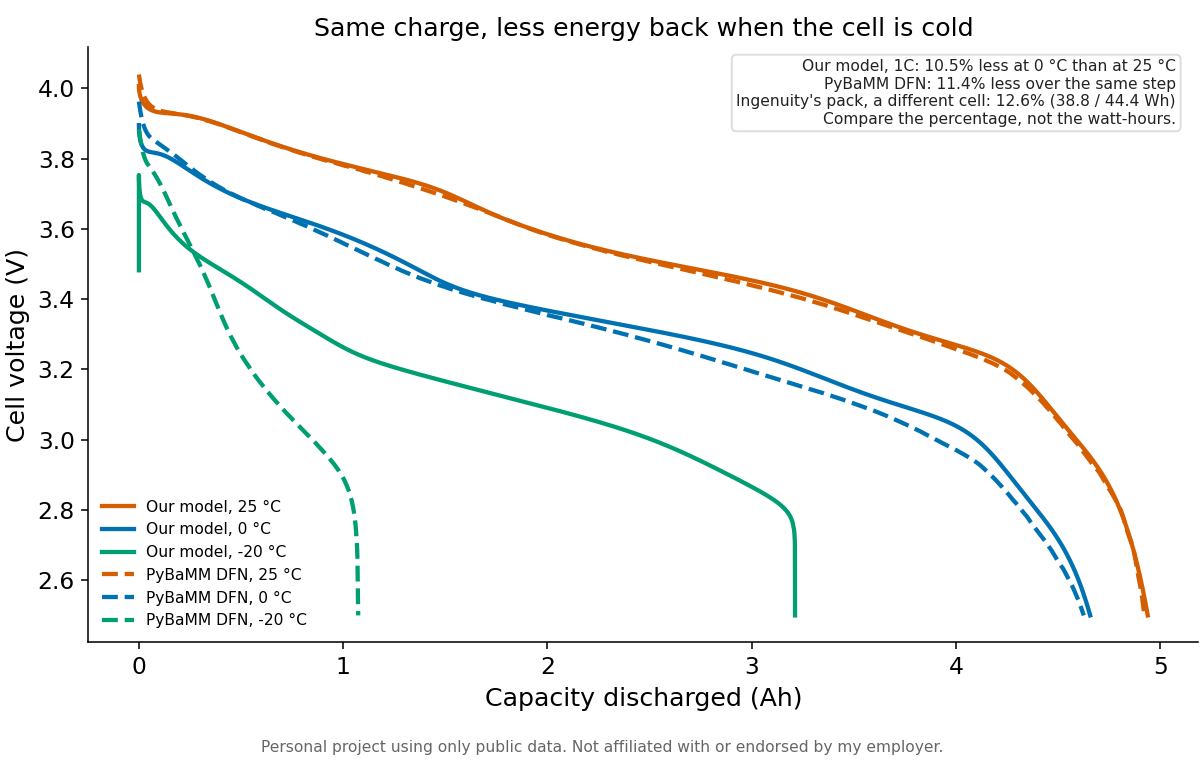
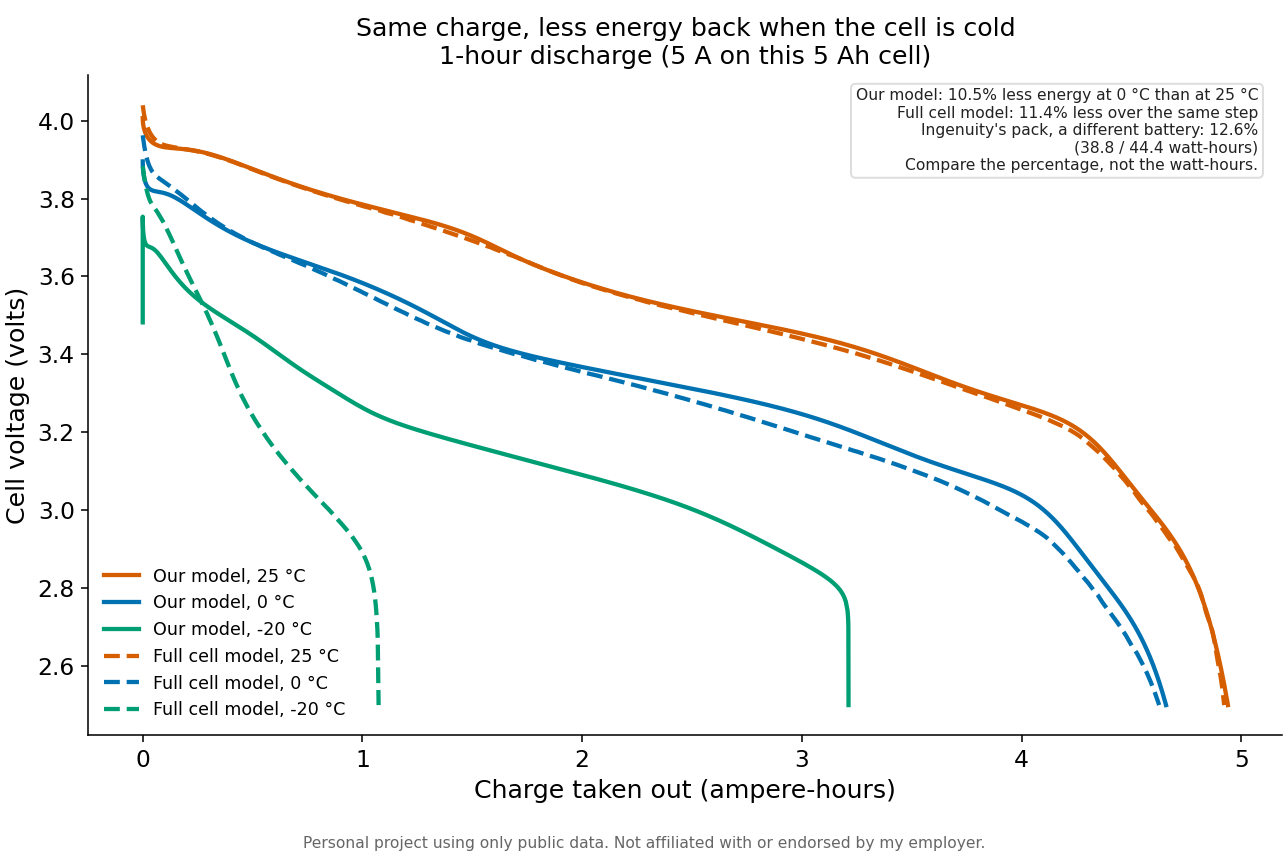
Spell out rates and units on the November figures.
Legends say a 1-hour or 2-hour charge instead of 1C and C/2 on their own.
The plating axis names the milliampere-hours and adds a milligram scale.
Heater, voltage and state-of-charge labels are written in words.
The numbers are unchanged.

diff --git a/01-lunar-night-battery/make_figures.py b/01-lunar-night-battery/make_figures.py
@@ -15,7 +15,7 @@ import matplotlib.pyplot as plt
 import numpy as np
 
 from cell import Cell, cell_from_params
-from common.constants import STEFAN_BOLTZMANN
+from common.constants import FARADAY, STEFAN_BOLTZMANN
 from common.params import Entry, require
 from common.plotting import COLOURS, apply_style, reserve_footer, save_figure
 from common.units import celsius_to_kelvin, watt_hours_to_joules
@@ -36,12 +36,23 @@ TEMPERATURE_COLOURS = {
 }
 
 
-def _rate_label(c_rate: float) -> str:
+# Conventional atomic weight of lithium, three figures. Grams per ampere-hour
+# is (3600 C/Ah) / Faraday (C/mol) × this mass. One mAh is the same number of
+# milligrams, so the right-hand scale on chart A is the left-hand scale times
+# this factor.
+LITHIUM_MOLAR_MASS_G_PER_MOL = 6.94
+LITHIUM_MG_PER_MAH = 3600.0 / FARADAY * LITHIUM_MOLAR_MASS_G_PER_MOL
+
+
+def _rate_label(c_rate: float, capacity_Ah: float) -> str:
+    """Plain-language legend. 1C on a 5 Ah cell is a 5 A, one-hour charge."""
+    current_A = c_rate * capacity_Ah
     if abs(c_rate - 0.5) < 1e-9:
-        return "C/2"
+        return f"2-hour charge (C/2 = {current_A:g} A)"
     if abs(c_rate - 1.0) < 1e-9:
-        return "1C"
-    return f"{c_rate:g}C"
+        return f"1-hour charge (1C = {current_A:g} A)"
+    hours = 1.0 / c_rate
+    return f"{hours:g}-hour charge ({current_A:g} A)"
 
 
 def figure_a(cell: Cell, book: dict[str, Entry], out: Path, smoke: bool) -> dict:
@@ -101,15 +112,16 @@ def figure_a(cell: Cell, book: dict[str, Entry], out: Path, smoke: bool) -> dict
 
     rate_colours = {0.5: COLOURS["mid"], 1.0: COLOURS["warm"]}
     apply_style()
-    # Wide enough that 140 dpi is about 1300 px, the size a LinkedIn post shows.
-    figure, axes = plt.subplots(1, 2, figsize=(9.2, 5.15), sharey=True, layout="constrained")
+    # Wide enough that 140 dpi is about 1400 px, and tall enough for the
+    # two-line axis name plus the caption under the title.
+    figure, axes = plt.subplots(1, 2, figsize=(10.4, 6.3), sharey=True, layout="constrained")
     for axis, rows, title in (
         (axes[0], ours, "Our model: off until the anode hits 0 V"),
-        (axes[1], pybamm_rows or ours, "PyBaMM: a smooth Butler-Volmer tail"),
+        (axes[1], pybamm_rows or ours, "Cross-check: plating rises smoothly"),
     ):
         if axis is axes[1] and smoke:
-            axis.set_title("PyBaMM cross-check skipped in smoke mode")
-            axis.text(0.5, 0.5, "smoke mode", ha="center", va="center", transform=axis.transAxes)
+            axis.set_title("Cross-check skipped in the short test run")
+            axis.text(0.5, 0.5, "short test run", ha="center", va="center", transform=axis.transAxes)
             continue
         for rate in rates:
             subset = [row for row in rows if row["rate"] == rate]
@@ -118,14 +130,30 @@ def figure_a(cell: Cell, book: dict[str, Entry], out: Path, smoke: bool) -> dict
                 [row["plated_mAh"] for row in subset],
                 marker="o",
                 color=rate_colours.get(rate, COLOURS["ink"]),
-                label=_rate_label(rate),
+                label=_rate_label(rate, cell.nominal_capacity_Ah),
             )
         axis.set_xlabel("Charging temperature (°C)")
         axis.set_title(title, fontsize=11)
-        axis.legend(frameon=False)
+        axis.legend(frameon=False, fontsize=9, loc="upper right")
         axis.set_ylim(bottom=0.0)
-    axes[0].set_ylabel("Plated lithium at 4.2 V (mAh)")
-    figure.suptitle("Below 0 °C, charging starts to plate lithium", fontsize=14)
+    axes[0].set_ylabel("Lithium plated during charge\n(mAh of charge diverted to plating)")
+    # Same numbers, in milligrams of metal. 1 mAh ↔ LITHIUM_MG_PER_MAH mg.
+    metal = axes[1].secondary_yaxis(
+        "right",
+        functions=(
+            lambda milliamp_hours: milliamp_hours * LITHIUM_MG_PER_MAH,
+            lambda milligrams: milligrams / LITHIUM_MG_PER_MAH,
+        ),
+    )
+    metal.set_ylabel("Lithium metal (mg)")
+    metal.spines["top"].set_visible(False)
+    nameplate = cell.nominal_capacity_Ah
+    figure.suptitle(
+        "Below 0 °C, charging starts to plate lithium\n"
+        f"C-rate: 1C charges the full {nameplate:.0f} Ah cell in one hour.\n"
+        f"1 Ah of plating ≈ {LITHIUM_MG_PER_MAH * 1000:.0f} mg of lithium.",
+        fontsize=13,
+    )
     reserve_footer(figure)
     save_figure(figure, out / "A_plated_lithium.png")
     return {
@@ -145,7 +173,7 @@ def figure_b(cell: Cell, book: dict[str, Entry], out: Path, smoke: bool) -> dict
 
     ours = []
     apply_style()
-    figure, axis = plt.subplots(figsize=(8.6, 5.5), layout="constrained")
+    figure, axis = plt.subplots(figsize=(9.2, 6.2), layout="constrained")
     for temperature_C in temperatures:
         result = simulate(
             cell,
@@ -188,7 +216,7 @@ def figure_b(cell: Cell, book: dict[str, Entry], out: Path, smoke: bool) -> dict
                 curve.voltage_V,
                 color=TEMPERATURE_COLOURS.get(temperature_C, COLOURS["ink"]),
                 linestyle="--",
-                label=f"PyBaMM DFN, {temperature_C:.0f} °C",
+                label=f"Full cell model, {temperature_C:.0f} °C",
             )
             pybamm_rows.append(
                 {
@@ -204,25 +232,29 @@ def figure_b(cell: Cell, book: dict[str, Entry], out: Path, smoke: bool) -> dict
     ingenuity_warm = float(require(book, "ingenuity_energy_25C_Wh").value)
     ingenuity_cold = float(require(book, "ingenuity_energy_0C_Wh").value)
     ingenuity_drop = (ingenuity_warm - ingenuity_cold) / ingenuity_warm
-    axis.set_xlabel("Capacity discharged (Ah)")
-    axis.set_ylabel("Cell voltage (V)")
-    axis.set_title("Same charge, less energy back when the cell is cold")
-    axis.legend(frameon=False, fontsize=8, loc="lower left")
+    current_A = rate * cell.nominal_capacity_Ah
+    axis.set_xlabel("Charge taken out (ampere-hours)")
+    axis.set_ylabel("Cell voltage (volts)")
+    axis.set_title(
+        f"Same charge, less energy back when the cell is cold\n"
+        f"1-hour discharge ({current_A:.0f} A on this {cell.nominal_capacity_Ah:.0f} Ah cell)"
+    )
+    axis.legend(frameon=False, fontsize=9, loc="lower left")
     pybamm_drop = None
     if pybamm_rows:
         py_warm = next(row["energy_Wh"] for row in pybamm_rows if row["temperature_C"] == 25.0)
         py_cold = next(row["energy_Wh"] for row in pybamm_rows if row["temperature_C"] == 0.0)
         pybamm_drop = (py_warm - py_cold) / py_warm
-    drop_line = f"Our model, 1C: {drop * 100:.1f}% less at 0 °C than at 25 °C"
+    drop_line = f"Our model: {drop * 100:.1f}% less energy at 0 °C than at 25 °C"
     if pybamm_drop is not None:
-        drop_line += f"\nPyBaMM DFN: {pybamm_drop * 100:.1f}% less over the same step"
+        drop_line += f"\nFull cell model: {pybamm_drop * 100:.1f}% less over the same step"
     axis.text(
         0.98,
         0.98,
         (
             f"{drop_line}\n"
-            f"Ingenuity's pack, a different cell: {ingenuity_drop * 100:.1f}% "
-            f"({ingenuity_cold:.1f} / {ingenuity_warm:.1f} Wh)\n"
+            f"Ingenuity's pack, a different battery: {ingenuity_drop * 100:.1f}%\n"
+            f"({ingenuity_cold:.1f} / {ingenuity_warm:.1f} watt-hours)\n"
             "Compare the percentage, not the watt-hours."
         ),
         transform=axis.transAxes,
@@ -271,16 +303,16 @@ def figure_c(book: dict[str, Entry], out: Path) -> dict:
     # labels on top of the next panel. Mass gets its own axes. The bottom
     # panel is the corner where one watt is visible; on the full-scale plot
     # that watt is a few percent of the leak.
-    figure = plt.figure(figsize=(9.4, 7.8), layout="constrained")
+    figure = plt.figure(figsize=(10.2, 8.6), layout="constrained")
     grid = figure.add_gridspec(2, 2)
     ax_energy = figure.add_subplot(grid[0, 0])
     ax_mass = figure.add_subplot(grid[0, 1])
     ax_zoom = figure.add_subplot(grid[1, :])
     short_labels = {
-        "354 h night, no RHU": "354 h, no RHU",
-        "354 h night, one 1 W RHU": "354 h, one 1 W RHU",
-        "125 h PSR night, no RHU": "125 h, no RHU",
-        "125 h PSR night, one 1 W RHU": "125 h, one 1 W RHU",
+        "354 h night, no RHU": "354-hour night",
+        "354 h night, one 1 W RHU": "354-hour night + 1 W heater",
+        "125 h PSR night, no RHU": "125-hour shadowed night",
+        "125 h PSR night, one 1 W RHU": "125-hour night + 1 W heater",
     }
     for label, sink, hours, radioisotope, colour, style in cases:
         energy = np.array(
@@ -311,21 +343,26 @@ def figure_c(book: dict[str, Entry], out: Path) -> dict:
         equator,
     )
     for axis in (ax_energy, ax_mass):
-        axis.axvline(example_g, color=COLOURS["second"], linewidth=1.2, label="Example radiation")
-        axis.set_xlabel("Insulation conductance G (W/K)")
-        axis.legend(frameon=False, fontsize=8, loc="upper left")
-    ax_energy.set_ylabel("Heater energy over the night (Wh)")
+        axis.axvline(example_g, color=COLOURS["second"], linewidth=1.2, label="Example, by radiation")
+        axis.set_xlabel("Heat leak (watts per °C)")
+        axis.legend(frameon=False, fontsize=9, loc="upper left")
+    ax_energy.set_ylabel("Heater energy for the night (watt-hours)")
     ax_energy.set_title("Energy tracks the leak")
-    ax_mass.set_ylabel("Cell mass to store it (kg)")
+    ax_mass.set_ylabel("Cells to store that energy (kg)")
     ax_mass.set_title("Same leak, as cell mass")
     zoom_index = int(np.argmax(conductances >= 0.04))
     ax_zoom.set_xlim(float(conductances[0]), 0.04)
     ax_zoom.set_ylim(0.0, series["354 h night, no RHU"]["heater_Wh"][zoom_index] * 1.15)
-    ax_zoom.set_xlabel("Insulation conductance G (W/K)")
-    ax_zoom.set_ylabel("Heater energy over the night (Wh)")
+    ax_zoom.set_xlabel("Heat leak (watts per °C)")
+    ax_zoom.set_ylabel("Heater energy for the night (watt-hours)")
     ax_zoom.set_title("Where one 1 W radioisotope heater is enough")
-    ax_zoom.legend(frameon=False, fontsize=8, loc="upper left", ncol=2)
-    figure.suptitle("Halve the heat leak and you roughly halve the battery", fontsize=14)
+    ax_zoom.legend(frameon=False, fontsize=9, loc="upper left", ncol=2)
+    figure.suptitle(
+        "Halve the heat leak and you roughly halve the battery\n"
+        "Watt-hours are energy. A watt per °C is the same step as a watt per kelvin.\n"
+        "“1 W heater” is a radioisotope heater. The 125-hour night is a shadowed crater.",
+        fontsize=12,
+    )
     reserve_footer(figure)
     save_figure(figure, out / "C_heater_energy.png")
     return {
@@ -367,7 +404,7 @@ def figure_d(book: dict[str, Entry], out: Path, specific_energy: float) -> dict:
     hibernate = simulate_night(strategy="hibernate", **common)
 
     apply_style()
-    figure, axes = plt.subplots(2, 1, figsize=(8.6, 6.6), sharex=True, layout="constrained")
+    figure, axes = plt.subplots(2, 1, figsize=(8.8, 6.8), sharex=True, layout="constrained")
     axes[0].plot(keep.time_h, keep.temperature_C, color=COLOURS["warm"], label="Keep warm")
     axes[0].plot(hibernate.time_h, hibernate.temperature_C, color=COLOURS["mid"], label="Hibernate")
     axes[0].axhline(0.0, color=COLOURS["muted"], linewidth=0.8, linestyle=":")
@@ -376,8 +413,8 @@ def figure_d(book: dict[str, Entry], out: Path, specific_energy: float) -> dict:
     axes[0].set_title("A small pack that heats itself can still freeze")
     axes[1].plot(keep.time_h, keep.state_of_charge, color=COLOURS["warm"], label="Keep warm")
     axes[1].plot(hibernate.time_h, hibernate.state_of_charge, color=COLOURS["mid"], label="Hibernate")
-    axes[1].set_ylabel("State of charge")
-    axes[1].set_xlabel("Hours into a 354 h lunar night")
+    axes[1].set_ylabel("State of charge (1 means full)")
+    axes[1].set_xlabel("Hours into a 354-hour lunar night")
     axes[1].set_ylim(-0.05, 1.05)
     axes[1].legend(frameon=False, loc="center right")
     empty_index = int(np.argmax(keep.state_of_charge <= 1e-3))
@@ -385,7 +422,7 @@ def figure_d(book: dict[str, Entry], out: Path, specific_energy: float) -> dict:
     # The label sits in the open part of the panel, under the 0 °C line.
     # Putting it above the axes lands it on the title.
     axes[0].annotate(
-        f"heater stops, {empty_hour:.0f} h",
+        f"heater stops, {empty_hour:.0f} hours",
         xy=(empty_hour, 0.0),
         xytext=(empty_hour + 55, -48),
         fontsize=9,
@@ -397,7 +434,7 @@ def figure_d(book: dict[str, Entry], out: Path, specific_energy: float) -> dict:
     axes[0].text(
         354,
         sink_C + 8,
-        "sink, 95 K",
+        f"surroundings, {sink_C:.0f} °C ({sink:.0f} K)",
         ha="right",
         va="bottom",
         fontsize=8,

diff --git a/tests/test_figure_layout.py b/tests/test_figure_layout.py
@@ -44,3 +44,12 @@ def test_a_title_does_not_claim_plated_lithium_only_grows_as_it_gets_colder():
     ).read_text()
     assert "Colder charging deposits more lithium as metal" not in source
     assert "Below 0 °C, charging starts to plate lithium" in source
+    assert 'return "1C"' not in source
+    assert 'return "C/2"' not in source
+    assert "1-hour charge (1C =" in source
+    assert "2-hour charge (C/2 =" in source
+    assert "C-rate: 1C charges the full" in source
+    assert "mAh of charge diverted to plating" in source
+    assert "State of charge (1 means full)" in source
+    assert "watts per °C" in source
+    assert "Full cell model" in source

diff --git a/01-lunar-night-battery/EXPLAINED.md b/01-lunar-night-battery/EXPLAINED.md
@@ -456,7 +456,7 @@ Nothing draws a random number. The same `params.yaml` gives the same charts. `--
 
 ### A — 2 November. Below 0 °C, charging starts to plate lithium
 
-Two panels, same vertical axis. The left is titled "Our model: off until the anode hits 0 V". The right is titled "PyBaMM: a smooth Butler-Volmer tail", PyBaMM's irreversible plating kinetics on the Doyle–Fuller–Newman model. Blue is C/2, orange is 1C. The vertical axis is milliampere-hours of metal at the moment the cell hits 4.2 V, starting from the same rested empty state.
+Two panels, same vertical axis. The left is titled "Our model: off until the anode hits 0 V". The right is titled "Cross-check: plating rises smoothly". That cross-check is PyBaMM's irreversible plating kinetics on the Doyle–Fuller–Newman model, which is a Butler–Volmer tail: small above 0 V, never quite zero. The legend does not say "C/2" and "1C" on their own. It says "2-hour charge (C/2 = 2.5 A)" and "1-hour charge (1C = 5 A)". The line under the title says what a C-rate is: 1C charges the full 5 Ah cell in one hour. The vertical axis is labelled "Lithium plated during charge (mAh of charge diverted to plating)", read at the moment the cell hits 4.2 V, from the same rested empty state. The right-hand scale is the same quantity in milligrams of lithium metal. One ampere-hour of plating is about 259 mg, from \((3600 / F) \times 6.94\) g, with \(F\) the Faraday constant.
 
 The title is about the onset. A title that said colder charging deposits more metal would be false for our 1C result: −10 °C finishes with more metal than −20 °C, because the colder charge hits 4.2 V first.
 
@@ -470,7 +470,7 @@ Takeaway: the cold-charge limit is the negative electrode potential reaching 0 V
 
 ### B — 9 November. Same charge, less energy back when the cell is cold
 
-Solid lines are our model. Dashed lines are PyBaMM, plating off. Warm is 25 °C, blue is 0 °C, green is −20 °C.
+Solid lines are our model. Dashed lines are labelled "Full cell model": PyBaMM's Doyle–Fuller–Newman model, plating off. Warm is 25 °C, blue is 0 °C, green is −20 °C. The axes say "Charge taken out (ampere-hours)" and "Cell voltage (volts)". The title states the rate in words: a 1-hour discharge, 5 A on this 5 Ah cell. The corner note gives the energy drop in watt-hours and says to compare the percentage.
 
 | | 25 °C | 0 °C | −20 °C | Drop, 0 °C vs 25 °C |
 |---|---|---|---|---|
@@ -490,7 +490,7 @@ Takeaway: cold energy loss of this kind is voltage sag. Warm the cell and it com
 
 ### C — 16 November. Halve the heat leak and you roughly halve the battery
 
-Top left: heater energy against conductance, no radioisotope heat, for a 354-hour night at a 95 K sink and a 125-hour night at a 50 K sink. Both lines are straight in energy versus \(G\), which is \(P = G \Delta T\) times a fixed duration. At the low end, 0.005 W/K, the long night needs about 315 Wh and the short night about 139 Wh. At 0.2 W/K those are about 12613 Wh and about 5579 Wh. The vertical line is the example radiative leak, \(G \approx 0.0349\) W/K.
+Top left: heater energy against the heat leak, no radioisotope heat, for a 354-hour night at a 95 K sink and a 125-hour night at a 50 K sink. The axes say watt-hours and watts per °C. A difference of one kelvin is one degree Celsius, so a watt per °C is the same number as a watt per kelvin. The legend says "354-hour night" and "125-hour shadowed night" rather than abbreviations, and the title says the 1 W heater is a radioisotope heater. Both lines are straight in energy versus the leak, which is \(P = G \Delta T\) times a fixed duration. At the low end, 0.005 W/°C, the long night needs about 315 Wh and the short night about 139 Wh. At 0.2 W/°C those are about 12613 Wh and about 5579 Wh. The vertical line is the example radiative leak, about 0.0349 W/°C.
 
 Top right: the same two leaks, converted to cell mass at 142.12 Wh/kg. The mass is on its own axes. A second vertical scale drawn on the energy panel printed its tick labels on top of the neighbouring panel. At 0.02 W/K the long-night hold is about 3.56 W, about 1261 Wh, about 8.9 kg of cells.
 
@@ -504,7 +504,7 @@ Takeaway: insulation conductance is the multiplier on the battery you have to fl
 
 One 354-hour equatorial night, \(G = 0.02\) W/K, 3 kg, specific heat 900 J/(kg·K), starting at 20 °C and full. Stored energy 426 Wh. No radioisotope heat.
 
-Keep-warm cools from 20 °C to 0 °C with the heater off, holds 0 °C until the battery is empty at about 124 h, then falls toward the sink. Hibernation never turns the heater on. Its state of charge stays 1. Both traces finish within a degree of −178 °C, which is the 95 K sink. They do not reach 50 K, because the equatorial sink in this scenario is 95 K.
+Keep-warm cools from 20 °C to 0 °C with the heater off, holds 0 °C until the battery is empty at about 124 hours, then falls toward the sink. The figure marks that moment "heater stops, 124 hours". Hibernation never turns the heater on. The lower axis is "State of charge (1 means full)", and hibernation stays at 1. Both traces finish within a degree of −178 °C. The figure labels that line "surroundings, −178 °C (95 K)". They do not reach 50 K, because the equatorial sink in this scenario is 95 K.
 
 The 3 kg pack cannot buy the whole night at this conductance. Chart C's 8.9 kg figure is what the whole-night hold costs. Hibernation arrives at the same dawn temperature with the charge still in the cells. Whether those cells then accept a charge is the question chart A is about, and NASA's dwells were not run at 100% state of charge.
 

diff --git a/01-lunar-night-battery/README.md b/01-lunar-night-battery/README.md
@@ -48,6 +48,8 @@ Set `SPACE_POWER_SIMS_MODE=smoke` first if you want the short path CI uses.
 
 ## Results
 
+The figures spell the units out. A 1-hour charge is 1C, which is 5 A on this 5 Ah cell, and a 2-hour charge is half that current. Plated lithium is labelled as milliampere-hours of charge diverted into metal, with a second scale in milligrams (1 Ah ≈ 259 mg). Heater energy is in watt-hours, the heat leak in watts per °C, and chart D's surroundings are labelled in °C and in kelvin. State of charge is written in words, with 1 meaning full.
+
 | Chart | Takeaway | Post |
 |---|---|---|
 | [A](figures/A_plated_lithium.png) | Our 0 V rule is a step: C/2 plates about 125 mAh only at −20 °C, and 1C plates about 75 mAh at −10 °C but only about 33 mAh at −20 °C because that charge hits 4.2 V sooner. PyBaMM's kinetics rise smoothly and plate at every temperature. | 2 Nov 2026 |
